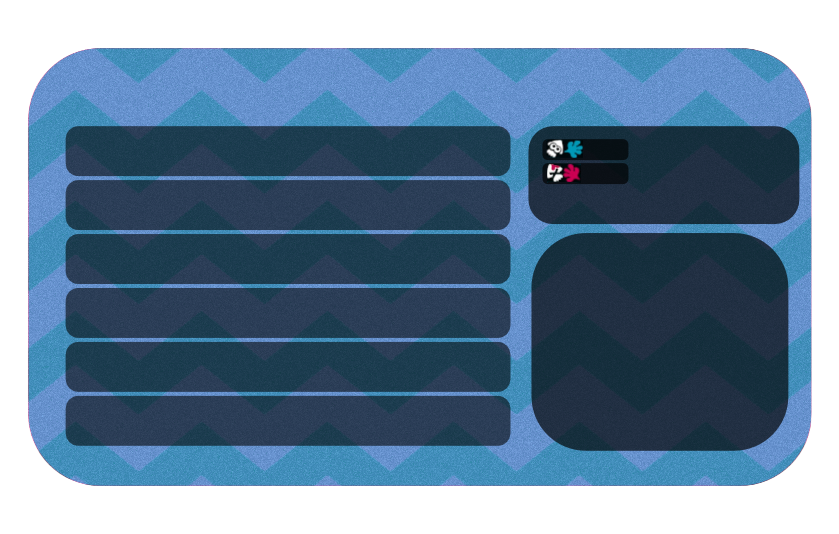
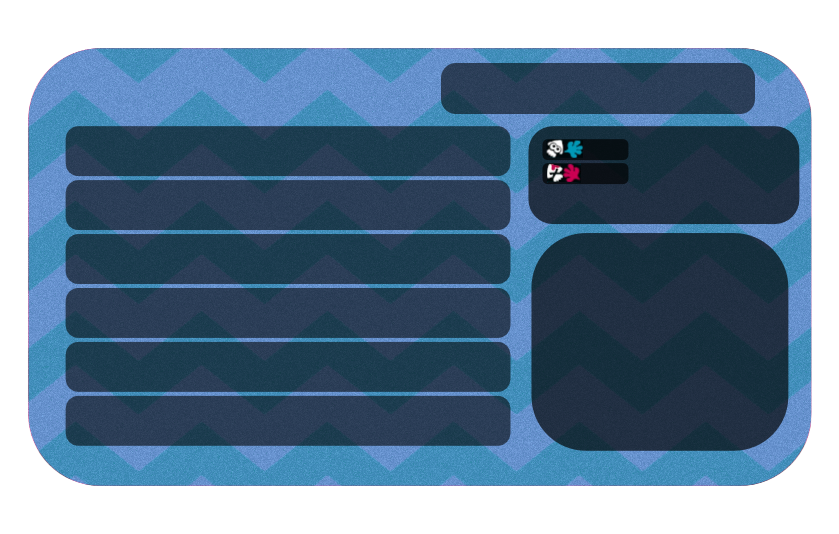
more splatmania

Changed region(s): [[0.5268, 0.1199, 0.8987, 0.2397]]

diff --git a/README.md b/README.md
@@ -257,15 +257,19 @@ Original theme by Jose Varela, no longer maintained. Optimized for NotITG 4.9.1 
 -Common normal font is now an edited version of PaintballStroke so that the UI that use it fit the game more.\
 -Fixed some issues with japanese/korean text.\
 -The Start button now takes you to 2P Regular immediately. The usual select mode button is now the Other modes button.\
--Slightly altered some UI so text doesn't get covered up.\
+-Slightly altered some UI so that it makes more sense and text doesn't get covered up.\
 -Added some more Options for the sake of long-term usage of this theme inside NotITG rather than the SplatMania build.\
 -Doubles and Marathon modes are now accessible.\
 -Added a timeout in the title screen that leads to the detailed credits screen because that screen is just unused for some reason.\
 -In my opinion the song banner being hidden in song selection screen is unacceptable for normal NotITG so I added that back.\
 -Added a bunch of info in song selection screen like step artist being shown for every difficulty, your high score being shown, Failed icon shown in song selection on failed songs, little squids that indicate easier/harder difficulties available, etc.\
 -Added modernized noteskin, jugdment font, hold judgment, and Music Rate customization.\
+-Fixed the error where the Long/Marathon pop-up in song selection screen keeps getting bigger if you switch through songs rapidly, also changed its location.\
+-A "Success!" rank is added to the evaluation screen for when you lifebar pass the song. The song banner is also added there.\
 -Stitch.lua is implemented, alongside FailOverlays and the in-game console.
 
+
+TO-DO: FIX FONT, FIX COURSE MODE
 
 # Special thanks
 [MattMayuga](https://github.com/Tiny-Foxes/JudgeFonts-by-MattMayuga/) - Judgment fonts.
